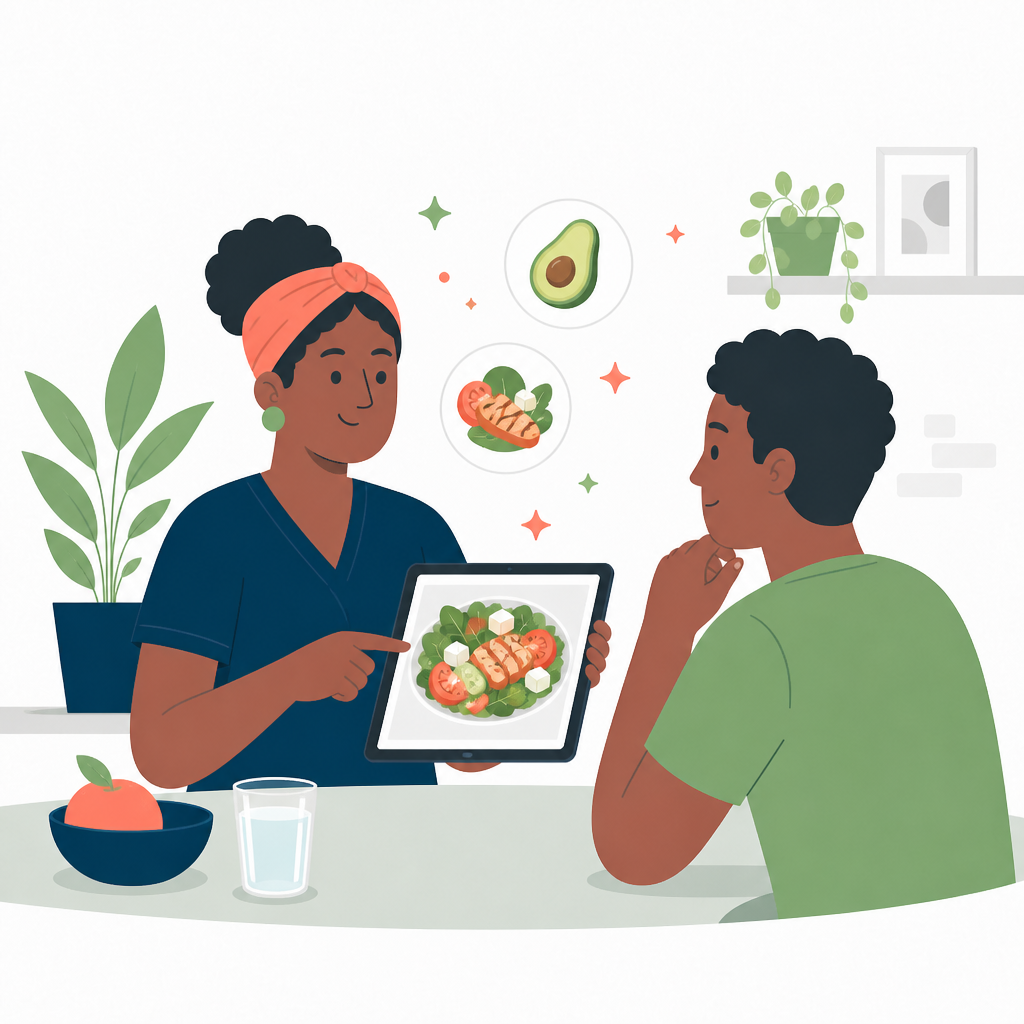
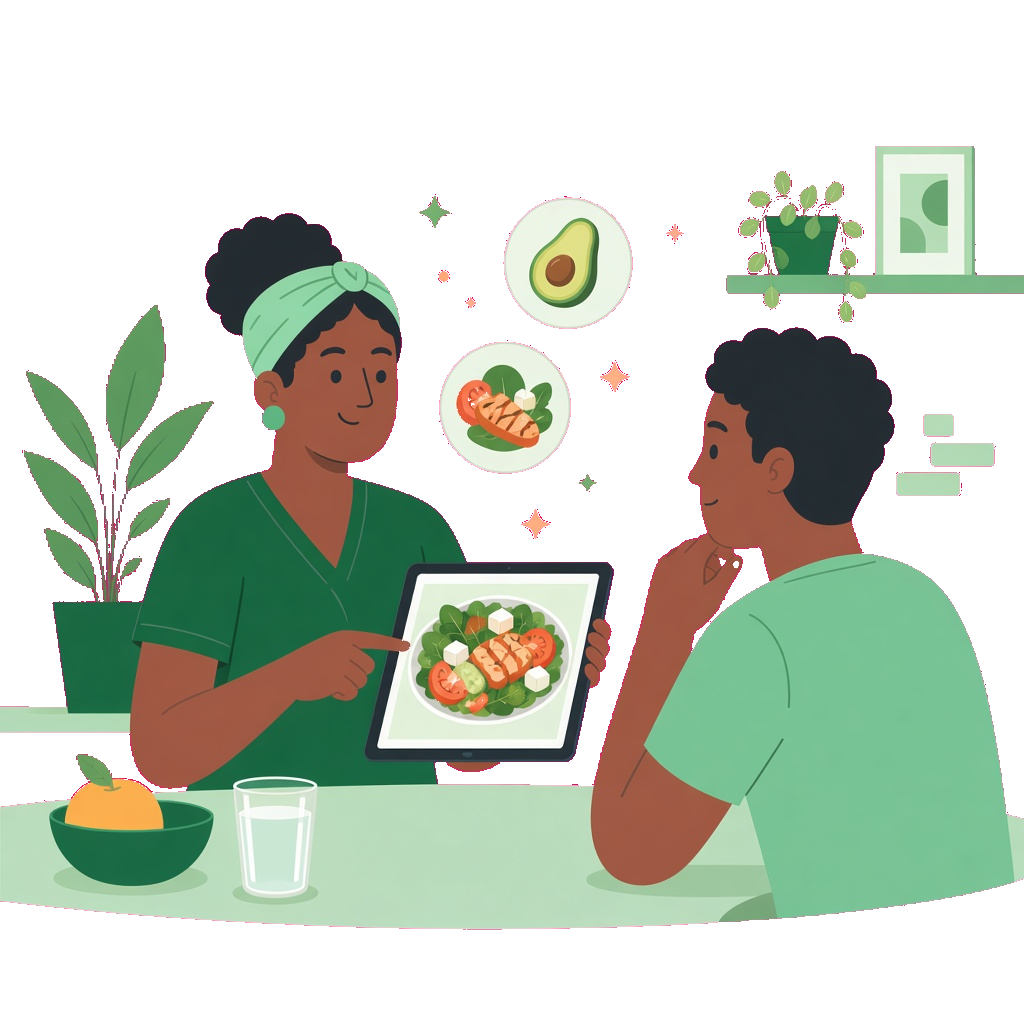
feat: refresh welcome illustrations

diff --git a/mobile/src/app/welcome.tsx b/mobile/src/app/welcome.tsx
@@ -62,7 +62,7 @@ export default function WelcomeScreen() {
     });
 
   return (
-    <View className="flex-1 bg-white" style={{ paddingTop: insets.top + 8 }}>
+    <View className="flex-1 bg-ash-grey-50" style={{ paddingTop: insets.top + 8 }}>
       <StatusBar style="dark" />
 
       <Animated.View entering={FadeIn.duration(400)} className="mt-2 items-center px-5">
@@ -79,11 +79,17 @@ export default function WelcomeScreen() {
               entering={FadeIn.duration(280)}
               exiting={FadeOut.duration(180)}
               className="w-full items-center">
-              <Image source={SLIDE_IMAGES[index]} className="h-[240px] w-[240px]" resizeMode="contain" />
+              <Image
+                source={SLIDE_IMAGES[index]}
+                style={{ width: 240, height: 240, backgroundColor: 'transparent' }}
+                resizeMode="contain"
+              />
               <Text className="mt-4 text-center font-sans-bold text-[28px] leading-9 text-neutral-900">
                 {slide.title}
               </Text>
-              <Text className="mt-3 text-center text-[16px] leading-6 text-neutral-500">{slide.body}</Text>
+              <Text className="mt-3 text-center text-[16px] leading-6 text-neutral-500">
+                {slide.body}
+              </Text>
             </Animated.View>
           ) : null}
         </View>
@@ -97,11 +103,13 @@ export default function WelcomeScreen() {
           <LanguageSwitcher variant="labeled" />
         </View>
 
-        <View className="mb-6 flex-row items-center justify-center gap-2">
+        <View className="mb-5 flex-row items-center justify-center gap-2">
           {slides.map((_, i) => (
             <Pressable key={`dot-${i}`} hitSlop={10} onPress={() => goToAndResetTimer(i)}>
               <View
-                className={`h-2 rounded-full ${i === index ? 'w-7 bg-blue-spruce-700' : 'w-2 bg-blue-spruce-200'}`}
+                className={`h-2 rounded-full ${
+                  i === index ? 'w-7 bg-blue-spruce-700' : 'w-2 bg-blue-spruce-200'
+                }`}
               />
             </Pressable>
           ))}
@@ -109,14 +117,16 @@ export default function WelcomeScreen() {
 
         <Pressable
           onPress={() => push('/auth/register' as Href)}
-          className="h-14 items-center justify-center rounded-2xl bg-blue-spruce-700 active:opacity-90">
+          accessibilityRole="button"
+          className="h-12 items-center justify-center rounded-xl bg-blue-spruce-600 active:opacity-90">
           <Text className="font-sans-semibold text-[16px] text-white">{t.welcome.getStarted}</Text>
         </Pressable>
 
         <Pressable
           onPress={() => push('/auth/login' as Href)}
-          className="mt-3 h-14 items-center justify-center rounded-2xl border border-blue-spruce-200 bg-white active:opacity-90">
-          <Text className="font-sans-semibold text-[16px] text-blue-spruce-800">{t.auth.logIn}</Text>
+          accessibilityRole="button"
+          className="mt-3 h-12 items-center justify-center rounded-xl border-[1.5px] border-black bg-white active:opacity-90">
+          <Text className="font-sans-semibold text-[16px] text-black">{t.auth.logIn}</Text>
         </Pressable>
       </Animated.View>
     </View>
